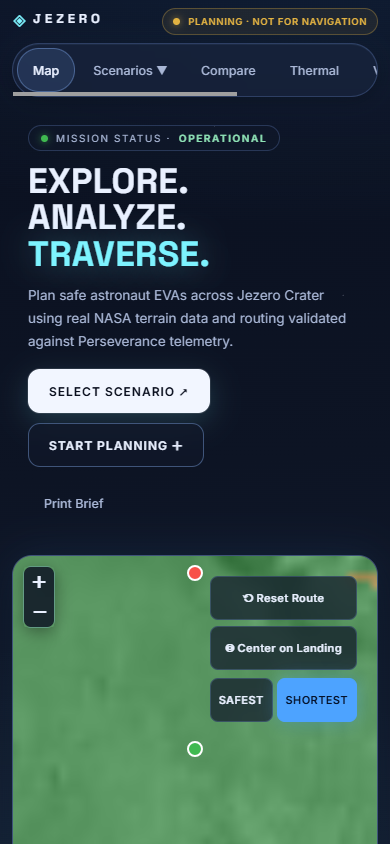
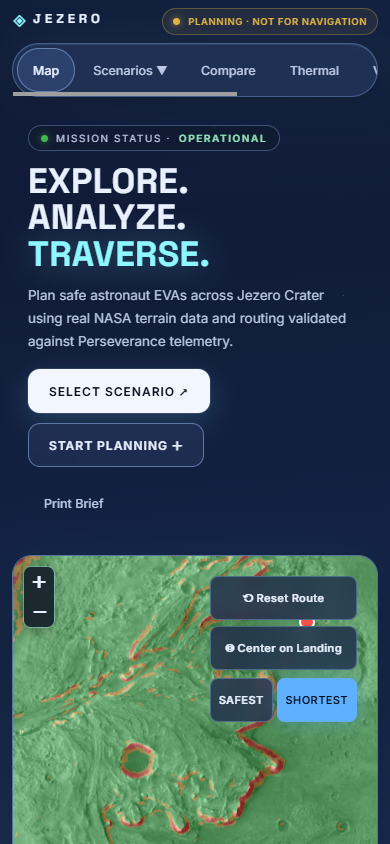
fix(ui): cover-fit DEM raster to map container, complete scenario card, brighter azure palette (Phase 2.2)

diff --git a/web/js/app.js b/web/js/app.js
@@ -103,8 +103,13 @@ async function boot() {
     state.slope = await loadSlope('./data/slope_u8.bin', expectedCells);
 
     const mapBounds = [[0, 0], [state.meta.height, state.meta.width]];
-    // Fit the whole Jezero grid inside the frame (no empty letterbox areas)
-    map.fitBounds(mapBounds);
+    // Phase 2.2: cover-fit the DEM raster to the container (no empty letterbox).
+    // Zoom chosen so the raster covers BOTH container dimensions (aspect preserved,
+    // vertical overflow stays pannable inside the raster via maxBounds).
+    fitMapToGrid();
+    setTimeout(fitMapToGrid, 80);   // re-fit once the NOVA layout has settled
+    map.options.maxBoundsViscosity = 1.0; // Leaflet reads viscosity from options when clamping to maxBounds
+    map.setMaxBounds(mapBounds);
 
     // Add CTX Basemap
     try {
@@ -147,7 +152,7 @@ async function boot() {
     setupHeroActions();
     setupMiniCards();
     // Correct Leaflet sizing after the full NOVA layout settles
-    setTimeout(() => { map.invalidateSize(); map.fitBounds(mapBounds); }, 250);
+    setTimeout(() => { refitOnResize(); }, 250);
     
     document.getElementById('input-speed').addEventListener('input', (e) => {
       state.speedKmh = parseFloat(e.target.value) || 2;
@@ -371,6 +376,7 @@ window.addEventListener('click', (e) => modals.forEach(m => { if (e.target === m
 
 window.addEventListener('resize', () => {
   setTimeout(() => {
+    refitOnResize();
     map.invalidateSize();
     if (currentMetrics && currentMetrics.arrays) drawProfile('profile-canvas', currentMetrics.arrays);
     if (document.getElementById('validation-modal').style.display === 'flex' && state.validationSample) drawValidationScatter('val-scatter-canvas', state.validationSample);
@@ -472,6 +478,30 @@ async function setupValidation() {
 }
 
 /* ===== NOVA additions: map toolbar, opacity readouts, hero CTAs, mini cards ===== */
+
+// Cover-fit the DEM raster to the map container: the zoom is chosen so the raster
+// covers the container in both dimensions (aspect preserved, never stretched).
+// Derived from the canonical grid metadata - no guessed coordinates.
+function fitMapToGrid() {
+  if (!state.meta || !map) return;
+  const mapEl = document.getElementById('map');
+  const cw = mapEl.clientWidth || mapEl.getBoundingClientRect().width;
+  const ch = mapEl.clientHeight || mapEl.getBoundingClientRect().height;
+  if (!cw || !ch) return;
+  const coverZoom = Math.max(
+    Math.log2(cw / state.meta.width),
+    Math.log2(ch / state.meta.height)
+  );
+  const snapped = Math.ceil(coverZoom * 4) / 4; // zoomSnap is 0.25 - round UP to stay covered
+  map.setView([state.meta.height / 2, state.meta.width / 2], snapped);
+  map.setMinZoom(snapped); // zooming out further would expose empty space
+}
+
+// Re-fit when the container size changes (layout settling + window resize)
+function refitOnResize() {
+  fitMapToGrid();
+  map.invalidateSize();
+}
 
 function setupMapToolbar() {
   // Reset Route — clears layers, state, brief, and hint (audit V-07)

diff --git a/web/css/components.css b/web/css/components.css
@@ -219,7 +219,7 @@ body {
 }
 .btn-hero-primary:hover { box-shadow: 0 0 0 1px rgba(255,255,255,0.2), 0 8px 34px rgba(125, 243, 255, 0.3); }
 .btn-hero-ghost {
-  background: rgba(16, 23, 42, 0.55);
+  background: rgba(36, 52, 88, 0.60);
   color: var(--text);
   border-color: var(--glass-border-strong);
   backdrop-filter: blur(10px);
@@ -354,7 +354,7 @@ body {
   justify-content: space-between;
   align-items: center;
   gap: 10px;
-  background: rgba(16, 23, 42, 0.55);
+  background: rgba(36, 52, 88, 0.60);
   border: 1px solid var(--glass-border);
   border-radius: var(--radius-sm);
   color: var(--text);
@@ -377,7 +377,7 @@ body {
 .thermal-mini { display: flex; gap: 10px; }
 .thermal-chip {
   flex: 1;
-  background: rgba(16, 23, 42, 0.55);
+  background: rgba(36, 52, 88, 0.60);
   border: 1px solid var(--glass-border);
   border-radius: var(--radius-sm);
   padding: 12px;
@@ -390,7 +390,7 @@ body {
 
 /* Validation mini card */
 .validation-mini { display: flex; gap: 10px; }
-.mini-stat { flex: 1; background: rgba(16, 23, 42, 0.55); border: 1px solid var(--glass-border); border-radius: var(--radius-sm); padding: 10px 8px; text-align: center; }
+.mini-stat { flex: 1; background: rgba(36, 52, 88, 0.60); border: 1px solid var(--glass-border); border-radius: var(--radius-sm); padding: 10px 8px; text-align: center; }
 .mini-stat .mono { font-family: var(--font-mono); font-size: 20px; font-weight: 700; color: var(--cyan); display: block; }
 .mini-stat label { font-size: 8.5px; letter-spacing: 1.2px; color: var(--text-faint); display: block; margin-top: 4px; }
 
@@ -413,7 +413,7 @@ body {
   font-size: 11.5px;
   font-weight: 500;
   color: var(--text);
-  background: rgba(16, 23, 42, 0.55);
+  background: rgba(36, 52, 88, 0.60);
   border: 1px solid var(--glass-border);
   border-radius: 999px;
   padding: 9px 14px;
@@ -456,7 +456,7 @@ body {
   font-weight: 600;
   letter-spacing: 0.4px;
   color: var(--text);
-  background: rgba(16, 23, 42, 0.72);
+  background: rgba(28, 42, 74, 0.80);
   border: 1px solid var(--glass-border);
   border-radius: var(--radius-sm);
   padding: 10px 12px;
@@ -576,7 +576,7 @@ body {
 /* ===== Validation specifics ===== */
 .validation-grid { display: grid; grid-template-columns: repeat(3, 1fr); gap: var(--space-3); margin: var(--space-4) 0; }
 .val-card {
-  background: rgba(16, 23, 42, 0.55);
+  background: rgba(36, 52, 88, 0.60);
   padding: var(--space-3);
   border-radius: var(--radius-sm);
   border: 1px solid var(--glass-border);
@@ -593,7 +593,7 @@ body {
   width: 100%;
   position: relative;
   margin-top: 10px;
-  background: rgba(4, 6, 13, 0.55);
+  background: rgba(16, 26, 50, 0.55);
   border: 1px solid var(--glass-border);
   border-radius: var(--radius-sm);
 }

diff --git a/web/css/layout.css b/web/css/layout.css
@@ -6,14 +6,14 @@
 
 body {
   background:
-    radial-gradient(1100px 520px at 78% -8%, rgba(77, 163, 255, 0.16), transparent 62%),
-    radial-gradient(900px 480px at 12% 108%, rgba(125, 243, 255, 0.07), transparent 60%),
+    radial-gradient(1100px 520px at 78% -8%, rgba(96, 180, 255, 0.22), transparent 62%),
+    radial-gradient(900px 480px at 12% 108%, rgba(143, 247, 255, 0.10), transparent 60%),
     radial-gradient(2px 2px at 12% 22%, rgba(233, 240, 255, 0.4), transparent 55%),
     radial-gradient(2px 2px at 32% 66%, rgba(233, 240, 255, 0.25), transparent 55%),
     radial-gradient(1.5px 1.5px at 55% 12%, rgba(233, 240, 255, 0.32), transparent 55%),
     radial-gradient(1.5px 1.5px at 74% 76%, rgba(233, 240, 255, 0.2), transparent 55%),
     radial-gradient(2px 2px at 88% 32%, rgba(233, 240, 255, 0.28), transparent 55%),
-    linear-gradient(175deg, #0C1220 0%, #0F1626 55%, #121A2C 100%);
+    linear-gradient(175deg, #101A32 0%, #142038 55%, #182748 100%);
   background-attachment: fixed;
   color: var(--text);
   font-family: var(--font);
@@ -114,7 +114,7 @@ body {
   grid-template-columns: minmax(300px, 370px) 1fr minmax(215px, 235px);
   grid-template-rows: minmax(0, 1fr); /* rail content scrolls inside its cell - never overlaps cards */
   gap: 14px;
-  flex: 5 1 0;
+  flex: 1 1 0;
   min-height: 0;
 }
 
@@ -122,8 +122,8 @@ body {
   display: grid;
   grid-template-columns: repeat(4, 1fr);
   gap: 14px;
-  flex: 2 1 0;
-  min-height: 0;
+  flex: 0 0 232px;
+  min-height: 232px;
 }
 .card { min-height: 0; }
 
@@ -294,7 +294,7 @@ body {
 .link-btn:hover { text-decoration: underline; }
 
 /* ===== Scenario card ===== */
-.scenario-list { display: flex; flex-direction: column; gap: 8px; }
+.scenario-list { display: flex; flex-direction: column; gap: 6px; }
 .scenario-btn {
   display: flex;
   justify-content: space-between;
@@ -357,8 +357,9 @@ body {
 
 /* ===== Layers strip ===== */
 .layers-strip { border-radius: var(--radius-lg); padding: var(--space-3) var(--space-4); overflow: hidden; }
-.layers-strip .layer-item { gap: 4px; padding-bottom: 6px; }
-.layers-strip .legend { margin-top: 4px; }
+.layers-strip .layer-item { gap: 3px; padding-bottom: 4px; }
+.layers-strip .legend { margin-top: 3px; }
+#scenario-list .scenario-btn { padding: 6px 14px; min-height: 38px; }
 .layers-strip-title { font-size: 10.5px; font-weight: 700; letter-spacing: 1.8px; color: var(--text); margin-bottom: var(--space-3); }
 .layers-strip-body {
   display: grid;

diff --git a/web/css/tokens.css b/web/css/tokens.css
@@ -1,19 +1,19 @@
 :root {
   /* Deep navy / black NOVA base */
-  --bg-0: #0A1020;
-  --bg-1: #0D1424;
-  --bg-2: #111A2E;
+  --bg-0: #0E1730;
+  --bg-1: #122040;
+  --bg-2: #16264A;
 
   /* Glass surfaces */
-  --glass-bg: rgba(28, 40, 68, 0.55);
-  --glass-bg-strong: rgba(30, 42, 70, 0.80);
-  --glass-border: rgba(130, 175, 255, 0.22);
-  --glass-border-strong: rgba(140, 185, 255, 0.38);
-  --glass-glow: 0 0 24px rgba(77, 163, 255, 0.06), inset 0 1px 0 rgba(160, 200, 255, 0.06);
+  --glass-bg: rgba(42, 62, 104, 0.55);
+  --glass-bg-strong: rgba(46, 66, 108, 0.80);
+  --glass-border: rgba(150, 195, 255, 0.32);
+  --glass-border-strong: rgba(160, 200, 255, 0.48);
+  --glass-glow: 0 0 28px rgba(96, 180, 255, 0.10), inset 0 1px 0 rgba(170, 210, 255, 0.10);
 
   /* Electric blue / cyan lighting */
-  --blue: #4DA3FF;
-  --cyan: #7DF3FF;
+  --blue: #5FB0FF;
+  --cyan: #8FF7FF;
   --cyan-soft: rgba(125, 243, 255, 0.12);
   --blue-soft: rgba(77, 163, 255, 0.12);
 
@@ -27,14 +27,14 @@
 
   /* Text */
   --text: #E9F0FF;
-  --text-dim: #A9B7D6;
-  --text-faint: #7E8DB2;
+  --text-dim: #BCC9E6;
+  --text-faint: #93A3CC;
 
   /* Typography */
   --font: "Inter", system-ui, -apple-system, "Segoe UI", sans-serif;
   --font-display: "Space Grotesk", "Inter", system-ui, sans-serif;
   --font-mono: ui-monospace, "Cascadia Mono", "Consolas", "SF Mono", monospace;
-  --map-bg: #0E1526;
+  --map-bg: #152443;
 
   /* Shape */
   --radius-sm: 8px;

diff --git a/web/css/responsive.css b/web/css/responsive.css
@@ -57,6 +57,11 @@
   .nav-btn, .btn-hero, .tool-btn, .dropdown-menu button,
   .scenario-btn, .mode-btn, .suit-chip { min-height: 44px; }
 
+  /* Scenario entries: 2x2 grid keeps all four visible with 44px touch targets */
+  .scenario-list { display: grid; grid-template-columns: 1fr 1fr; gap: 6px; }
+  .scenario-btn { padding: 6px 12px; }
+  .scenario-btn .sdist { font-size: 10px; }
+
   /* Topbar: brand+status row, actions row scrolls horizontally */
   .topnav {
     flex-wrap: wrap;
@@ -103,10 +108,11 @@
 @media (min-width: 1025px) {
   body { height: 100vh; overflow: hidden; }
   .nova { flex: 1; min-height: 0; }
-  .row-top { flex: 5 1 0; min-height: 0; }
-  .row-cards { flex: 2 1 0; min-height: 0; }
+  .row-top { flex: 1 1 0; min-height: 0; }
+  /* stacked full-width cards size to their content - nothing clips */
+  .row-cards { flex: 0 0 auto; min-height: 0; }
   .card { min-height: 0; }
   .stats-rail { min-height: 0; }
   .map-stage { min-height: 0; height: 100%; }
-  .layers-strip { flex: 2 1 0; min-height: 0; overflow-y: auto; }
+  .layers-strip { flex: 0 0 190px; min-height: 190px; overflow-y: auto; }
 }

diff --git a/docs/audit/REDESIGN_IMPLEMENTATION_REPORT.md b/docs/audit/REDESIGN_IMPLEMENTATION_REPORT.md
@@ -84,7 +84,20 @@ Owner-approved polish pass after reviewing the rendered NOVA UI. Root causes fou
 
 **Modified in this pass:** `web/css/layout.css` (full NOVA rewrite), `web/css/tokens.css`, `web/css/components.css`, `web/css/responsive.css`, `web/js/app.js` (fitBounds/invalidateSize/keep-zoom centering). Data/routing contracts untouched (blob check unchanged).
 
-## 12. Final readiness verdict (updated after Phase 2.1)
+## 11b. Phase 2.2 - Map Fit, Scenario Card & Brighter Blue (2026-11-14, same branch)
+
+| Priority | Issue | Root cause | Fix | Verified |
+|---|---|---|---|---|
+| P1 | DEM raster occupied a small portion of the map container on fresh load (huge empty area) | Leaflet `zoomSnap: 1` forced fitBounds to an integer zoom ~2 levels too far out (raster rendered at ~25% of the container) | **Cover-fit**: `fitMapToGrid()` derives the zoom from the canonical grid metadata so the raster covers BOTH container dimensions (aspect preserved, never stretched), clamped to the 0.25 zoom grid by rounding UP; `maxBounds` + viscosity 1.0 keep the view inside the raster at every zoom; re-fit on boot settle + window resize; `setMinZoom` prevents zoom-out exposing empty space. Center-on-Landing keeps its own behavior (current zoom) | raster 1016x1075 covers 738x350 container on fresh load AND at all 4 viewports (re-fit probe) |
+| P2 | Scenarios card clipped - "Long" entry cut off | card 232px vs content 252px (4 x 44px touch buttons + gaps) | Desktop: compact 38px buttons (specificity-raised rule) -> all four inside 232px. <=1024px: scenario list becomes a 2x2 grid keeping 44px touch targets with all entries visible | 4/4 entries fully inside card bounds on desktop AND all viewports (fullyInside: true x4) |
+| P3 | Still too dark | glass/borders/dim-text too low | Palette lifted to brighter azure/cyan: surfaces rgba(42,62,104,.55), borders rgba(150,195,255,.32), dim text #BCC9E6, map bg #152443, stronger blue atmosphere glow - applied consistently to nav, map frame, cards, rail, controls, dropdowns, dialogs | surface luminance **61** (was 40 -> original ~14); map bg rgb(21,36,67), not near-black |
+
+**Phase 2.2 battery: 23/23 PASS** (fresh-load cover-fit x2, scenario card 4/4 inside + selectable, preset/shortest/reset/center regressions, brightness probes, 4 viewports x raster-covers + scenarios-complete + no-overflow + badge; console 0 errors; network 0 failures).
+
+**Modified in this pass:** `web/js/app.js` (fitMapToGrid/refit/resize wiring + maxBoundsViscosity option fix - the bogus `map.setMaxBoundsViscosity()` call had aborted the whole boot), `web/css/layout.css`, `web/css/tokens.css`, `web/css/components.css`, `web/css/responsive.css`. Datasets, A*, grid contracts: untouched.
+
+
+## 13. Final readiness verdict (updated after Phase 2.2)
 
 ## **READY FOR E2E TESTING**
 
